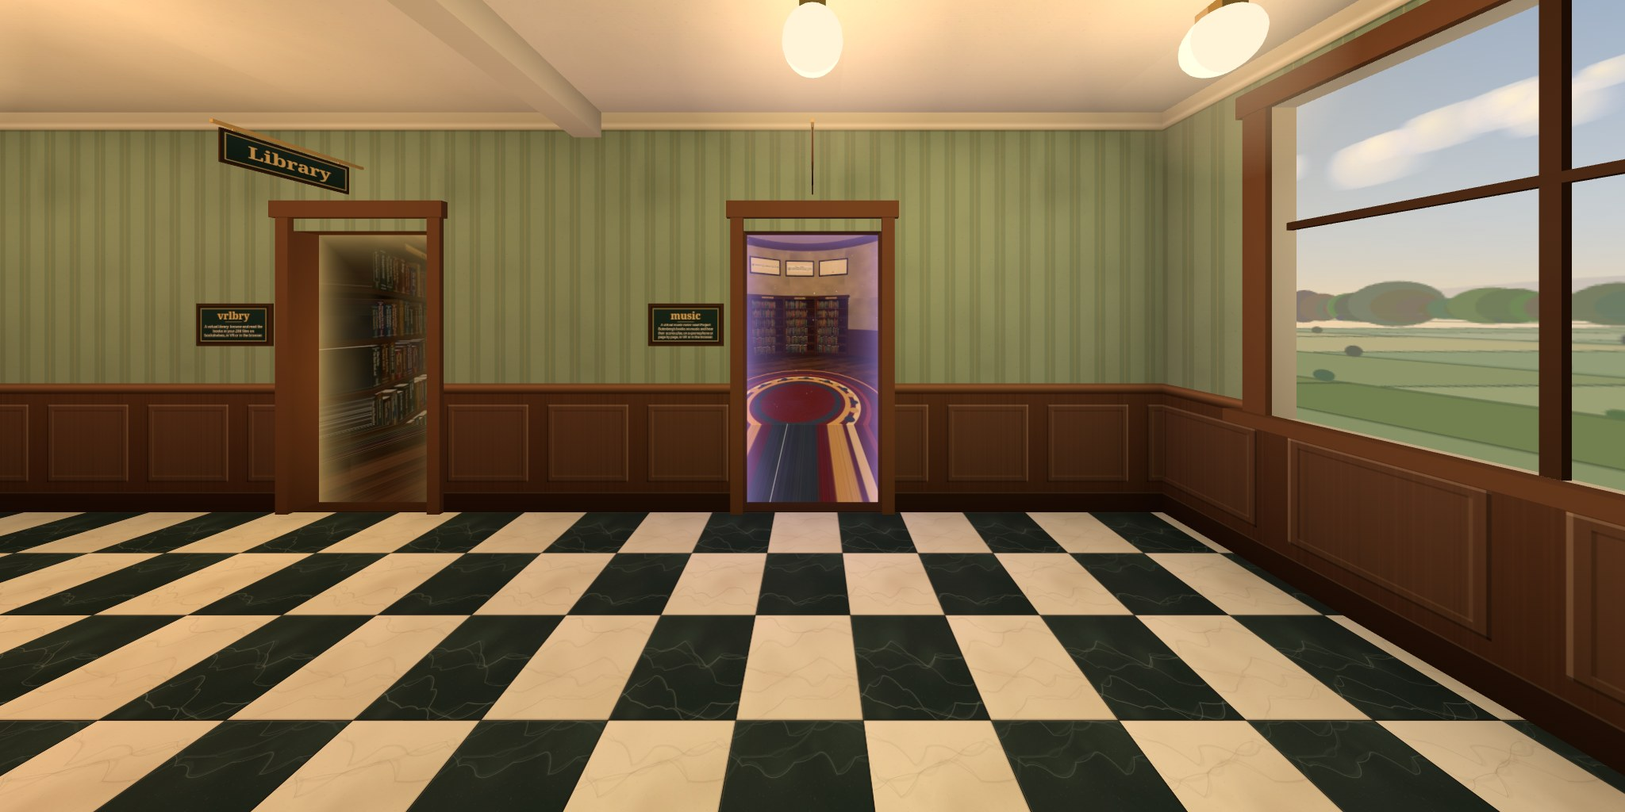
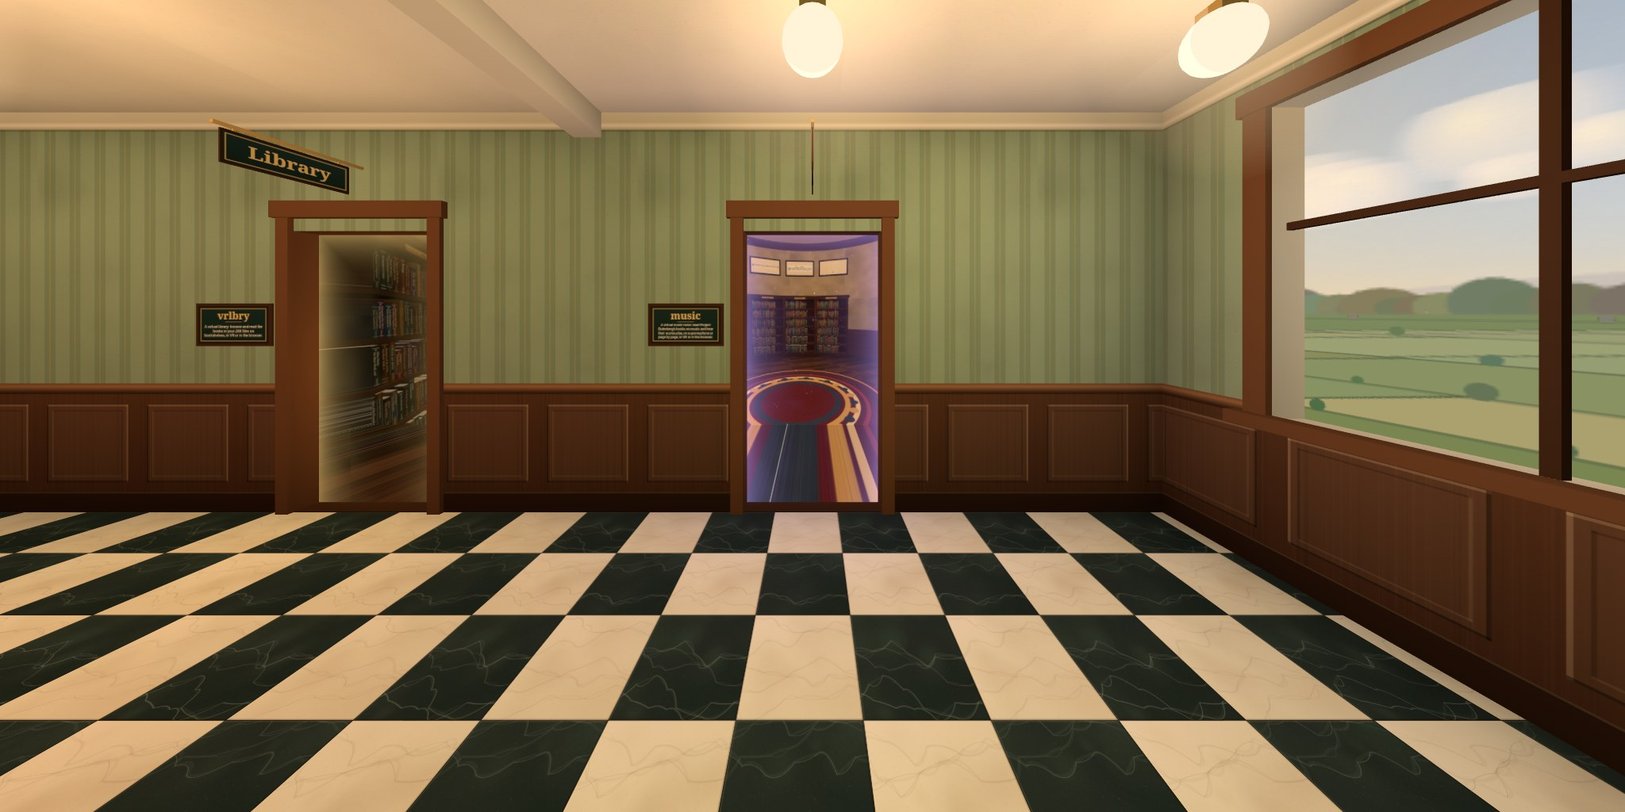
The end window's sky from common v0.3.0
common v0.3.0 has outside's late afternoon as sky.js, the same panorama
outside's garden is under. The end window's picture was a slice of it
copied by hand, so it stops being one: textures.js's skyTexture, and
the colours, sun and hills it copied, go.

The window's glass is now skyMaterial(skyTexture(), { yaw: 0 }) from
common/sky.js: the sky by view direction, at infinity, looking down the
hall as one looks down the garden. It is drawn first and writes no
depth, so the hallway's own scenery can hang in front of it: the fields
below the horizon, kept as a picture of their own (textures.js
fieldsTexture), transparent above the horizon, hung 40 m out as the old
picture was. Their haze is the sky's colour at the horizon (skyColor),
warmer toward its sun, and the hills and tree line over them are the
sky's. The window's baked daylight is skyColor a little over the
horizon, straight out of the window.

The door views are rendered again on a Quest: music's and outside's
look out of the window and changed; vrlbry's and breadboard's did not.
The link preview's picture, which shows the window, is rendered again.

diff --git a/public/js/textures.js b/public/js/textures.js
@@ -1,6 +1,7 @@
 // Canvas textures painted at start-up: the hall's surfaces, the signs and the view out of the
 // window. Painted once each, small enough to take a few milliseconds.
 import * as THREE from 'three';
+import { SUN_DIR, skyColor } from 'common/sky.js';
 
 export const SERIF = '"Iowan Old Style", "Palatino Linotype", Palatino, Georgia, "Noto Serif", serif';
 export const SANS = 'system-ui, -apple-system, "Segoe UI", Roboto, "Noto Sans", sans-serif';
@@ -378,167 +379,54 @@ export function previewFallback(env) {
   return texture(c);
 }
 
-// The view out of the end window: the same late afternoon as outside's garden (AriaMoKr/outside,
-// public/js/sky.js; keep them in step): its sky's colours and haze, its low sun in the west, its
-// hills and a line of trees, a few clouds lit gold toward the sun. Painted as the flat picture the
-// window hangs (hall.js: 40 m behind it, 50 m tall, the horizon 30 % up), looking down the hall
-// (-z) as one would look down the garden, so every pixel is the direction it shows from the window.
-const SKY = { depth: 40, height: 50, horizon: 0.3 };
-/** Outside's sun (its bake.js SUN_DIR): low, to the left of straight ahead, about 25° up. */
-const SUN = (() => {
-  const v = [-0.72, 0.43, -0.55], n = Math.hypot(...v);
-  return v.map((x) => x / n);
-})();
-const SUN_AZ = Math.atan2(SUN[0], -SUN[2]);
+// The fields out of the end window: the hallway's own scenery below the horizon, in front of
+// common's sky (common/sky.js, outside's late afternoon, which the window's glass shows at
+// infinity, hills and tree line included). A flat picture hung FIELDS.depth beyond the window, its
+// horizon at the window's eye height, painted looking down the hall (-z) as the sky is laid out
+// (yaw 0), so each field's haze is the sky's own colour at the horizon there, warmer toward its sun.
+// Transparent above the horizon, where the sky shows. Sizes in metres at the picture.
+export const FIELDS = { depth: 40, width: 160, above: 3, below: 60, near: 15 };
+
 const DEG = Math.PI / 180;
 const hex = (h) => [parseInt(h.slice(1, 3), 16), parseInt(h.slice(3, 5), 16), parseInt(h.slice(5, 7), 16)];
 const mix = (a, b, t) => [a[0] + (b[0] - a[0]) * t, a[1] + (b[1] - a[1]) * t, a[2] + (b[2] - a[2]) * t];
-const smooth = (a, b, v) => {
-  const t = Math.min(1, Math.max(0, (v - a) / (b - a)));
-  return t * t * (3 - 2 * t);
-};
 const rgb = (c) => `rgb(${c.map(Math.round).join(',')})`;
-// Outside's palette.
-const ZENITH = hex('#3f6db3'), HIGH = hex('#6f97cf'), LOW = hex('#b9cde3'), HORIZON = hex('#e8dcc6');
-const SUNNY = hex('#ffd08a'), WARM_HAZE = hex('#f6cf9c'), COOL_HAZE = hex('#c9d3dd');
+const SUN_AZ = Math.atan2(SUN_DIR[0], -SUN_DIR[2]);
+/** The sky's colour just over the horizon at azimuth az (from -z toward +x), as common paints it. */
+const horizonAt = (az) => skyColor(0.5 * DEG, Math.sin(az) * SUN_DIR[0] - Math.cos(az) * SUN_DIR[2]);
 
-/** Outside's sky colour (sRGB 0…255) at elevation el, where toSun is the cosine from the sun. */
-function skyColor(el, toSun) {
-  const sunny = Math.max(0, toSun);
-  const k = Math.sqrt(Math.max(0, el) / (Math.PI / 2));
-  let c = mix(HORIZON, LOW, smooth(0, 0.3, k));
-  c = mix(c, HIGH, smooth(0.25, 0.65, k));
-  c = mix(c, ZENITH, smooth(0.6, 1, k));
-  const haze = Math.exp(-Math.max(0, el) / (4 * DEG));
-  c = mix(c, mix(COOL_HAZE, WARM_HAZE, sunny ** 2), haze * 0.7);
-  const glow = sunny ** 6 * 0.5 * (1 - 0.5 * k) + sunny ** 60 * 0.55;
-  return mix(c, SUNNY, Math.min(1, glow));
-}
-
-/** Outside's hill ranges: their tops' elevation (degrees, times amp, plus base) at an azimuth. */
-const ridge = (az, terms) => terms.reduce((s, [n, a, p]) => s + a * Math.sin(n * az + p), 0);
-const FAR_HILLS = [[2, 0.7, 0.4], [3, 0.5, 1.9], [5, 0.35, 2.7], [8, 0.18, 0.2], [13, 0.08, 1.1]];
-const NEAR_HILLS = [[1, 0.6, 2.2], [4, 0.45, 0.3], [6, 0.3, 1.4], [11, 0.12, 2.0]];
-
-/** The end window's view: outside's late afternoon. 2:1, the horizon at 30 % up. */
-export function skyTexture() {
-  const W = 1024, H = 512, u = W / 2048; // u: a pixel's size, for sizes given at 2048 wide
+/** The fields: 1536 wide (about 10 px a metre, as the old picture), the horizon FIELDS.above from the top. */
+export function fieldsTexture() {
+  const W = 1536, H = Math.round((W * (FIELDS.above + FIELDS.below)) / FIELDS.width);
+  const m = W / FIELDS.width; // pixels a metre
+  const u = m / 20.48; // a pixel's size, for sizes given at 20.48 px a metre (100 m in 2048)
   const c = canvas(W, H), g = c.getContext('2d'), r = rng(81);
-  const halfWidth = SKY.height; // the picture is twice as wide as it is tall
-  // A pixel's direction, and where a direction falls on the picture.
-  const dir = (x, y) => {
-    const X = (x / W - 0.5) * 2 * halfWidth, Y = (1 - y / H - SKY.horizon) * SKY.height;
-    const n = Math.hypot(X, Y, SKY.depth);
-    return [X / n, Y / n, -SKY.depth / n];
-  };
-  const toX = (az) => (SKY.depth * Math.tan(az) / (2 * halfWidth) + 0.5) * W;
-  const toY = (az, el) => (1 - SKY.horizon - (SKY.depth * Math.tan(el)) / Math.cos(az) / SKY.height) * H;
-
-  // The sky, worked out per pixel on a small picture, then scaled up (it is smooth).
-  const w = 128, h = 64;
-  const small = canvas(w, h), sg = small.getContext('2d');
-  const img = sg.createImageData(w, h);
-  for (let y = 0; y < h; y++) {
-    for (let x = 0; x < w; x++) {
-      const d = dir(((x + 0.5) / w) * W, ((y + 0.5) / h) * H);
-      const col = skyColor(Math.asin(d[1]), d[0] * SUN[0] + d[1] * SUN[1] + d[2] * SUN[2]);
-      const k = (y * w + x) * 4;
-      img.data[k] = col[0];
-      img.data[k + 1] = col[1];
-      img.data[k + 2] = col[2];
-      img.data[k + 3] = 255;
-    }
-  }
-  sg.putImageData(img, 0, 0);
-  g.imageSmoothingEnabled = true;
-  g.drawImage(small, 0, 0, W, H);
-
-  // Clouds: soft heaps of puffs, lit gold toward the sun (on the left), grey away from it.
-  const pxPerDeg = (SKY.depth * Math.tan(DEG) / (2 * halfWidth)) * W;
-  for (let k = 0; k < 7; k++) {
-    const az = k < 3 ? SUN_AZ + 0.15 + r() * 0.45 : -0.6 + r() * 1.4;
-    const el = (9 + r() * 22) * DEG;
-    const lit = Math.max(0, Math.cos(el) * Math.cos(Math.asin(SUN[1])) * Math.cos(az - SUN_AZ) + Math.sin(el) * SUN[1]);
-    const size = ((2.5 + r() * 3.5) * pxPerDeg) / Math.cos(az);
-    const puffs = 5 + Math.floor(r() * 6);
-    for (let p = 0; p < puffs; p++) {
-      const cx = toX(az) + (r() - 0.5) * size * 3.2, cy = toY(az, el) + (r() - 0.5) * size * 0.55;
-      const pr = size * (0.35 + 0.4 * r());
-      const sx = Math.sign(SUN_AZ - az) * pr * 0.3, sy = -pr * 0.25;
-      const grad = g.createRadialGradient(cx + sx, cy + sy, pr * 0.1, cx, cy, pr);
-      grad.addColorStop(0, `rgba(255,${Math.round(252 - 14 * lit)},${Math.round(246 - 40 * lit)},0.82)`);
-      grad.addColorStop(0.6, `rgba(${Math.round(238 + 10 * lit)},${Math.round(236 - 4 * lit)},${Math.round(238 - 20 * lit)},0.55)`);
-      grad.addColorStop(0.85, 'rgba(225,222,228,0.2)');
-      grad.addColorStop(1, 'rgba(220,220,228,0)');
-      g.fillStyle = grad;
-      g.beginPath();
-      g.ellipse(cx, cy, pr * 1.5, pr * 0.62, 0, 0, Math.PI * 2);
-      g.fill();
-    }
-  }
-
-  // The sun is just past the picture's left edge: its wide glow reaches in.
-  const sunX = toX(SUN_AZ), sunY = toY(SUN_AZ, Math.asin(SUN[1])), glow = 38 * pxPerDeg;
-  const sunGlow = g.createRadialGradient(sunX, sunY, 0, sunX, sunY, glow);
-  sunGlow.addColorStop(0, 'rgba(255,220,160,0.28)');
-  sunGlow.addColorStop(1, 'rgba(255,210,150,0)');
-  g.fillStyle = sunGlow;
-  g.fillRect(0, sunY - glow, sunX + glow, 2 * glow);
-
-  // Far hills, blue in the haze, washed warm toward the sun; then nearer ones; then trees.
-  const horizonY = (1 - SKY.horizon) * H;
+  const horizonY = FIELDS.above * m, nearY = horizonY + FIELDS.near * m;
+  const azAt = (x) => Math.atan((x / W - 0.5) * FIELDS.width / FIELDS.depth);
   const sunnyAt = (az) => Math.max(0, Math.cos(az - SUN_AZ)) ** 4;
-  const azAt = (x) => Math.atan(((x / W - 0.5) * 2 * halfWidth) / SKY.depth);
-  const range = (terms, base, amp, colors) => {
-    const grad = g.createLinearGradient(0, 0, W, 0);
-    for (let i = 0; i <= 8; i++) grad.addColorStop(i / 8, rgb(mix(hex(colors[0]), hex(colors[1]), sunnyAt(azAt((i / 8) * W)))));
-    g.fillStyle = grad;
-    g.beginPath();
-    g.moveTo(0, horizonY + 4);
-    for (let x = 0; x <= W; x += 4 * u) {
-      const az = azAt(x);
-      g.lineTo(x, toY(az, (base + amp * ridge(az, terms)) * DEG));
-    }
-    g.lineTo(W, horizonY + 4);
-    g.closePath();
-    g.fill();
-  };
-  range(FAR_HILLS, 2.2, 1.5, ['#a3afc0', '#e3cdb2']);
-  range(NEAR_HILLS, 1.1, 1.0, ['#7f9184', '#c9b996']);
-  for (let x = -20 * u; x < W + 20 * u; x += (6 + r() * 10) * u) {
-    const az = azAt(x);
-    const top = (0.5 + 1.2 * r() + 0.4 * Math.sin(az * 7)) * DEG;
-    const rad = (horizonY - toY(az, top)) * (0.7 + 0.4 * r());
-    const col = mix(hex('#56654a'), hex('#a39a78'), sunnyAt(az) * 0.7);
-    g.fillStyle = rgb(col.map((v) => v * (0.9 + 0.2 * r())));
-    g.beginPath();
-    g.ellipse(x, horizonY - rad * 0.4, rad * (0.9 + 0.5 * r()), rad, 0, 0, Math.PI * 2);
-    g.fill();
-  }
-  // Below the horizon, fields falling away from the hall: bands, nearer ones deeper, cut into fields
-  // whose sides run to the horizon straight ahead; each a green or the gold of dry grass, hazier with
-  // distance and warmer toward the sun, with hedgerows round it and a few trees along its far edge.
-  const FIELDS = ['#7d8a5e', '#6f7f4a', '#8e9460', '#a39a63', '#738653', '#66753f'].map(hex);
-  const HEDGE = hex('#4c5a3a');
+  // Bands, nearer ones deeper, down to FIELDS.near below the horizon, cut into fields whose sides
+  // run to the horizon straight ahead; each a green or the gold of dry grass, hazier with distance
+  // and warmer toward the sun, with hedgerows round it and a few trees along its far edge.
+  const GRASS = ['#7d8a5e', '#6f7f4a', '#8e9460', '#a39a63', '#738653', '#66753f'].map(hex);
+  const HEDGE = hex('#4c5a3a'), TREE = hex('#56654a');
   const vx = W / 2, bands = 7;
-  /** x where a field's side, which meets the horizon at vx and the foot of the picture at foot, is at y. */
-  const side = (foot, y) => vx + ((foot - vx) * (y - horizonY)) / (H - horizonY);
+  /** x where a field's side, which meets the horizon at vx and the near line at foot, is at y. */
+  const side = (foot, y) => vx + ((foot - vx) * (y - horizonY)) / (nearY - horizonY);
   for (let b = 0; b < bands; b++) { // far to near, so a hedgerow's trees stand over the field beyond
-    const top = horizonY + 1 + (H - horizonY) * (b / bands) ** 1.8;
-    const bottom = b === bands - 1 ? H : horizonY + 1 + (H - horizonY) * ((b + 1) / bands) ** 1.8;
+    const top = horizonY + (nearY - horizonY) * (b / bands) ** 1.8;
+    const bottom = b === bands - 1 ? H : horizonY + (nearY - horizonY) * ((b + 1) / bands) ** 1.8;
     const far = 1 - b / bands, haze = 0.45 * far ** 2;
-    const scale = ((bottom - top) / ((H - horizonY) / bands)) * u;
-    const feet = [-3 * W];
-    for (let f = -3 * W + r() * W; f < 4 * W; f += (0.4 + r() * 0.9) * W) feet.push(f);
-    feet.push(4 * W);
+    const scale = ((Math.min(bottom, nearY) - top) / ((nearY - horizonY) / bands)) * u;
+    const feet = [vx - 300 * m];
+    for (let f = vx - 300 * m + r() * 100 * m; f < vx + 300 * m; f += (40 + r() * 90) * m) feet.push(f);
+    feet.push(vx + 300 * m);
     g.save();
     g.beginPath();
     g.rect(0, top, W, bottom - top + 1);
     g.clip();
     for (let f = 0; f + 1 < feet.length; f++) {
-      const mid = side((feet[f] + feet[f + 1]) / 2, (top + bottom) / 2);
-      const col = mix(mix(FIELDS[Math.floor(r() * FIELDS.length)], COOL_HAZE, haze), WARM_HAZE, 0.25 * far * sunnyAt(azAt(mid)));
-      g.fillStyle = rgb(col);
+      const az = azAt(side((feet[f] + feet[f + 1]) / 2, (top + Math.min(bottom, nearY)) / 2));
+      g.fillStyle = rgb(mix(GRASS[Math.floor(r() * GRASS.length)], horizonAt(az), haze + 0.2 * far * sunnyAt(az)));
       g.beginPath();
       g.moveTo(side(feet[f], top), top);
       g.lineTo(side(feet[f + 1], top), top);
@@ -548,7 +436,7 @@ export function skyTexture() {
       g.fill();
     }
     // Hedgerows: along the band's far edge, and down the fields' sides.
-    g.strokeStyle = g.fillStyle = rgb(mix(HEDGE, COOL_HAZE, 0.4 * far ** 2));
+    g.strokeStyle = g.fillStyle = rgb(mix(HEDGE, horizonAt(0), 0.4 * far ** 2));
     g.fillRect(0, top - 1.5 * scale, W, 3 * scale);
     g.lineWidth = 2 * scale;
     for (let f = 1; f + 1 < feet.length; f++) {
@@ -560,12 +448,18 @@ export function skyTexture() {
     g.restore();
     for (let x = r() * 150 * u; x < W; x += (50 + r() * 220) * u) {
       const rad = (4 + r() * 6) * scale;
-      g.fillStyle = rgb(mix(hex('#56654a'), COOL_HAZE, 0.4 * far ** 2).map((v) => v * (0.85 + 0.25 * r())));
+      g.fillStyle = rgb(mix(TREE, horizonAt(azAt(x)), 0.4 * far ** 2).map((v) => v * (0.85 + 0.25 * r())));
       g.beginPath();
       g.ellipse(x, top - rad * 0.7, rad * (0.9 + 0.5 * r()), rad, 0, 0, Math.PI * 2);
       g.fill();
     }
   }
+  // Below the near line, the field nearest the hall, darkening toward the foot of the picture.
+  const near = g.createLinearGradient(0, nearY, 0, H);
+  near.addColorStop(0, 'rgba(0,0,0,0)');
+  near.addColorStop(1, 'rgba(20,26,12,0.45)');
+  g.fillStyle = near;
+  g.fillRect(0, nearY, W, H - nearY);
   return texture(c);
 }
 

diff --git a/public/js/hall.js b/public/js/hall.js
@@ -6,6 +6,7 @@ import { Builder } from './builder.js';
 import { bake, boxOcclusion, lightAt } from './bake.js';
 import * as T from './textures.js';
 import { openingGeometry, placePortal, portalMaterial, setPicture } from 'common/portal.js';
+import { SUN_DIR, skyColor, skyMaterial, skyTexture } from 'common/sky.js';
 import { ControlPanel } from './panel.js';
 
 const lin = (hex) => {
@@ -17,6 +18,16 @@ const WOOD = lin('#6a4329');
 const DARK_WOOD = lin('#3e2617');
 const BRASS = lin('#c9a15a');
 const CREAM = lin('#e6dbc3');
+
+/** The window's daylight: common's sky (outside's late afternoon) a little over the horizon, straight out of the window (-z). */
+const DAYLIGHT = (() => {
+  const el = (12 * Math.PI) / 180;
+  const [r, g, b] = skyColor(el, -Math.cos(el) * SUN_DIR[2] + Math.sin(el) * SUN_DIR[1]);
+  const c = new THREE.Color().setRGB(r / 255, g / 255, b / 255, THREE.SRGBColorSpace);
+  return [c.r, c.g, c.b];
+})();
+/** The window's eye height, where the fields' horizon is. */
+const WINDOW_EYE = 1.55;
 
 // The room seen through a doorway: its picture hangs this far back, its horizon at eye height.
 const PICTURE = { depth: 2.4, height: 3.0, eye: 1.6, horizon: 0.56 };
@@ -35,8 +46,7 @@ export function buildHall(envs, { anisotropy = 1 } = {}) {
   for (const d of L.doors) {
     if (d.env) lights.push({ p: [d.side * (hw + 0.35), 1.15, d.z], c: lin(d.env.color), i: 1.6, r: 0.95, wrap: 0.3 });
   }
-  // The window's daylight: outside's late afternoon (textures.js's skyTexture), a hazy blue sky.
-  lights.push({ p: [0, 1.9, z1 + 0.25], c: lin('#d6dbe0'), i: 0.6, r: 1.2, wrap: 0.2 });
+  lights.push({ p: [0, 1.9, z1 + 0.25], c: DAYLIGHT, i: 0.6, r: 1.2, wrap: 0.2 });
   const lighting = { lights, sky: lin('#83745f'), ground: lin('#5e5142') };
   const occlusion = boxOcclusion({ x0: -hw, x1: hw, y0: 0, y1: H, z0: z1, z1: z0 });
   const lit = (builder) => bake(builder, lighting, occlusion).toGeometry();
@@ -181,16 +191,25 @@ export function buildHall(envs, { anisotropy = 1 } = {}) {
   });
   group.add(globes);
 
-  // The view out of the window.
+  // The view out of the window: common's sky on the glass, at infinity (outside's late afternoon,
+  // yaw 0: looking down the hall as one looks down the garden), drawn first and writing no depth,
+  // and in front of it the hallway's own fields (textures.js), a picture hung FIELDS.depth out.
   const windowHeight = WINDOW.top - WINDOW.bottom;
-  const view = new THREE.Mesh(
-    openingGeometry(WINDOW.width, windowHeight),
-    portalMaterial({ map: T.skyTexture(), width: WINDOW.width, height: windowHeight, depth: 40, pictureHeight: 50, eye: 1.55 - WINDOW.bottom, horizon: 0.3 }),
+  const sky = skyMaterial(skyTexture(), { yaw: 0 });
+  sky.depthWrite = false;
+  const glass = new THREE.Mesh(openingGeometry(WINDOW.width, windowHeight), sky);
+  glass.name = 'window';
+  glass.renderOrder = -1;
+  glass.position.set(0, WINDOW.bottom, z1 - 0.15);
+  group.add(glass);
+  const F = T.FIELDS;
+  const fields = new THREE.Mesh(
+    new THREE.PlaneGeometry(F.width, F.above + F.below),
+    new THREE.MeshBasicMaterial({ map: T.fieldsTexture(), transparent: true, depthWrite: false }),
   );
-  view.name = 'window';
-  view.position.set(0, WINDOW.bottom, z1 - 0.15);
-  group.add(view);
-  placePortal(view);
+  fields.name = 'fields';
+  fields.position.set(0, WINDOW_EYE + (F.above - F.below) / 2, z1 - 0.15 - F.depth);
+  group.add(fields);
 
   // A portal in each open doorway.
   const portals = [];

diff --git a/CLAUDE.md b/CLAUDE.md
@@ -38,9 +38,10 @@ node tools/door-views.mjs [--port n] [--cdp <url>]    # the view out of every op
 - `link.js`: pure. `doorPose`: how a visitor goes through a door, in the doorway's terms (`across`, `yaw`, `pitch`), which common's `doorLink` puts in the link as `dx`, `yaw`, `pitch`. The link itself (`doorLink`, `HALLWAY_ID`, `LINK_PARAMS`) comes from `common/door.js`, and the VR movement choice (`loadNav`, `saveNav`: localStorage `hallway.nav`) from `common/nav.js`: AriaMoKr/common (a GitHub dependency pinned to a tag, vendored and in the import map as `common/`), whose README is the contract and whose tests cover them. To take a newer one, move the tag in package.json and `npm install`.
 - `together.js`: the shared session (README, "Together"). `Together` starts (`start`, a new room by default), leaves (`stop`), and steps out for a door and back (`pause`, `resume`) a session of the layer from AriaMoKr/layersharedsession (a GitHub dependency pinned to a tag; `session.js` is imported dynamically, so Trystero loads only with a session). The room is in the address (`?room=`, `replaceState`); main.js joins the one an arriving URL names. Per frame `update` sends the head and, in VR, the controllers (the layer's `readPose`), and the layer's avatars (`avatars.js`: `createAvatars`, then `place` for those in the hallway, page id `hallway`) draw the others from their interpolated poses, with no allocation; a wave from one (the layer's `channel('wave')`, as the test page's, at most once a second per visitor) bobs their head and lifts their name for 1.2 s (`avatars.wave`). `setName` cleans and keeps a name (`saveName`, `lss.*` storage shared by every site on the origin) and sends it (`session.setName`); `status` and `people()` say how it's going and who is where, worded by `presence.js` (pure: `placeName` maps a page id to "here", an environment's title or "elsewhere", also the layer's `pageName`; `statusText`; `peopleText`, the panel's string). The status follows the relays (`relays` events, a 10 s timer), `navigator.onLine` and failed handshakes in the layer's log. The overlay's Together section (name box, status, the others with round trips) and its Wave button show while in a session; the grip in VR waves too (`controls.onSqueeze`, with a haptic pulse). The app id (`APP_ID`) is the layer's test page's, so that page can watch a hallway room. To take a newer layer, move its tag in package.json and `npm install`.
 - `hall.js` builds the scene from `builder.js` (world-space quads and boxes) with lighting baked into vertex colours by `bake.js`. Materials are unlit (`MeshBasicMaterial`); there are no real-time lights or shadows. A new light is an entry in hall.js's `lights` list.
-- `common/portal.js` (AriaMoKr/common): the doorway shader, which `hall.js` hangs in every open doorway and the end window (`portalMaterial`, `openingGeometry`, `placePortal`, `setPicture` once a preview loads). It ray-casts a box behind the opening: the far wall is the preview picture, the floor, ceiling and sides are its edges stretched. The end window uses it without the veil. The hallway sets `uTime` and `uGlow` each frame, and `door-view.js` stills them for a door view, as common documents.
+- `common/portal.js` (AriaMoKr/common): the doorway shader, which `hall.js` hangs in every open doorway (`portalMaterial`, `openingGeometry`, `placePortal`, `setPicture` once a preview loads). It ray-casts a box behind the opening: the far wall is the preview picture, the floor, ceiling and sides are its edges stretched. The hallway sets `uTime` and `uGlow` each frame, and `door-view.js` stills them for a door view, as common documents.
 - `door-view.js`: the view out of a door, for the environment behind it (common's README, "The view from your door"): `doorView` (pure: the eye on the threshold, the off-axis frustum onto the opposite wall's plane, the parameters an environment's portal hangs it with) and `renderDoorView` (into a render target, read back to a canvas, the fade hidden, the doorways still); `renderHallView`, the same from `HALL_VIEW`, is the link preview's picture (`public/social.jpg`, 1280 × 640: index.html's `og:image`, whose tags are tested against it). `__hallway.doorViews()` renders every open door's once the previews have loaded (`hall.previewsLoaded`), `__hallway.hallView()` the link preview's; `tools/door-views.mjs` reloads the page it finds (over DevTools: `Page.reload`) and writes them to `public/views/` and `public/social.jpg`. A new or changed door changes the views across the hall and the link preview: render them again and commit them.
-- `textures.js`: every canvas texture (painted at start-up, seeded so they never change). `skyTexture`, the end window's view, is outside's late afternoon (its `public/js/sky.js`: the sky's colours and haze, the sun's direction, the hills; keep them in step), painted as the flat picture the window hangs, each pixel the direction it shows looking down the hall, with fields below the horizon; `hall.js`'s window light is that sky's daylight. `previewFallback` is a door's picture until its preview loads, or for good when it has none: its title fitted to the middle of the picture, which is all a doorway shows.
+- The end window (`hall.js`): its glass is `common/sky.js`'s `skyMaterial(skyTexture(), { yaw: 0 })`, outside's late afternoon at infinity (looking down the hall as one looks down the garden), drawn first and writing no depth; in front of it, `FIELDS.depth` out, hangs the hallway's own scenery, `textures.js`'s `fieldsTexture` (a flat picture of fields below the horizon, transparent above it, hazed in the sky's horizon colour, `skyColor`). The window's baked light is `skyColor` a little over the horizon.
+- `textures.js`: every canvas texture (painted at start-up, seeded so they never change), but the sky, which is common's. `previewFallback` is a door's picture until its preview loads, or for good when it has none: its title fitted to the middle of the picture, which is all a doorway shows.
 - The control panel: its place (between the entrance and the first door on its wall, clear of every door and plaque there: tested) and buttons are in `layout.js` (`PANEL`, `PANEL_BUTTONS`, `panelButtonAt`; `castRay` reports `kind: 'panel'` with `u`, `v`), its drawing in `panel.js` (redrawn only when its state or the button pointed at changes; its Together section shows the shared session: Start / Leave, its status, the invite link, and up to four others and where, then "+N more", from a string so it redraws only when they change: round trips stay off it; 0.7 m tall, hung clear of the chair rail at 1 m: tested), the VR navigation choices it sets (`move`, `turn`) kept by `common/nav.js` (localStorage `hallway.nav`). A new button is an entry in `PANEL_BUTTONS`, a label in `panel.js` and a case in `main.js`'s `controls.onPanel`.
 - `common/gamepad.js` (AriaMoKr/common): pure and allocation-free. A gamepad as a first-person controller, read alike by the sites so a pad feels the same on both sides of a door: `readPad` (dead zone 0.18, linear; A uses, B and Back are both "back", the left stick clicked in hurries; an analogue button counts past half way), `firstPad` (the standard mapping first).
 - `controls.js`: desktop, touch, gamepad and XR input into one rig (yaw) + camera (head). The gamepad, as in vrlbry, takes over when used (`padActive`, `onPadActive`: its hint, and the middle of the view is what it points at) and a mouse move or press hands back; it looks at vrlbry's speeds (2.4 and 1.6 rad/s) and is not polled in VR; in VR the left stick walks or aims a teleport (`move`), the right one snaps or turns smoothly (`turn`), and teleports go through `onTeleport` (main.js blinks the view). `main.js`: renderer, loop, going through doors (`go`: a fade, `common/fade.js`'s `Fade`, then `location.assign` of the door's link), arrival, VR entry including `sessiongranted`, fullscreen (the overlay's button, with webkit fallbacks; Esc, or a gamepad's B or Back, leaves it).
